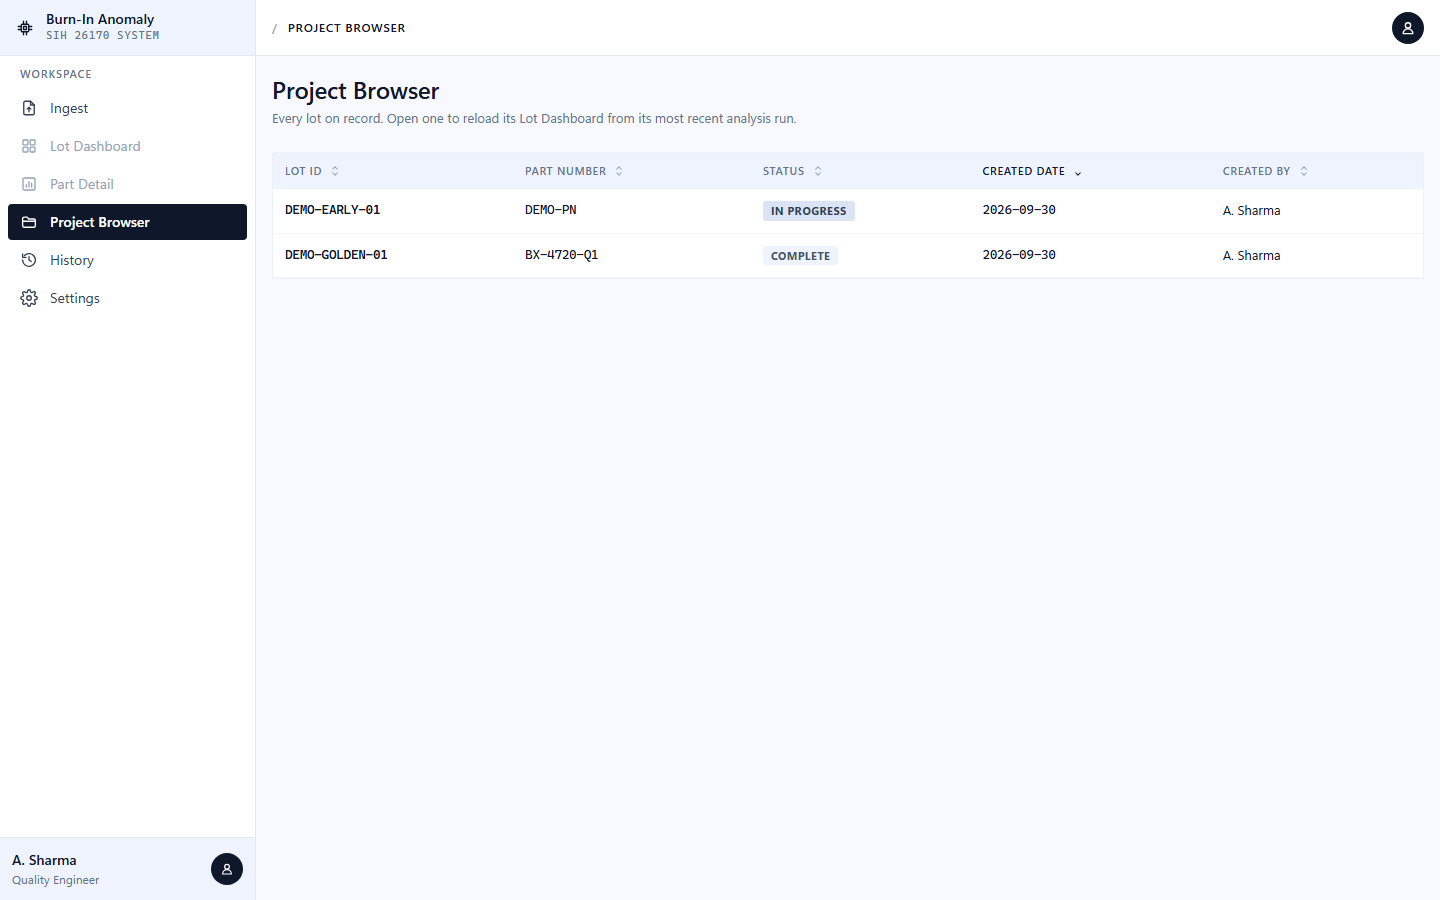
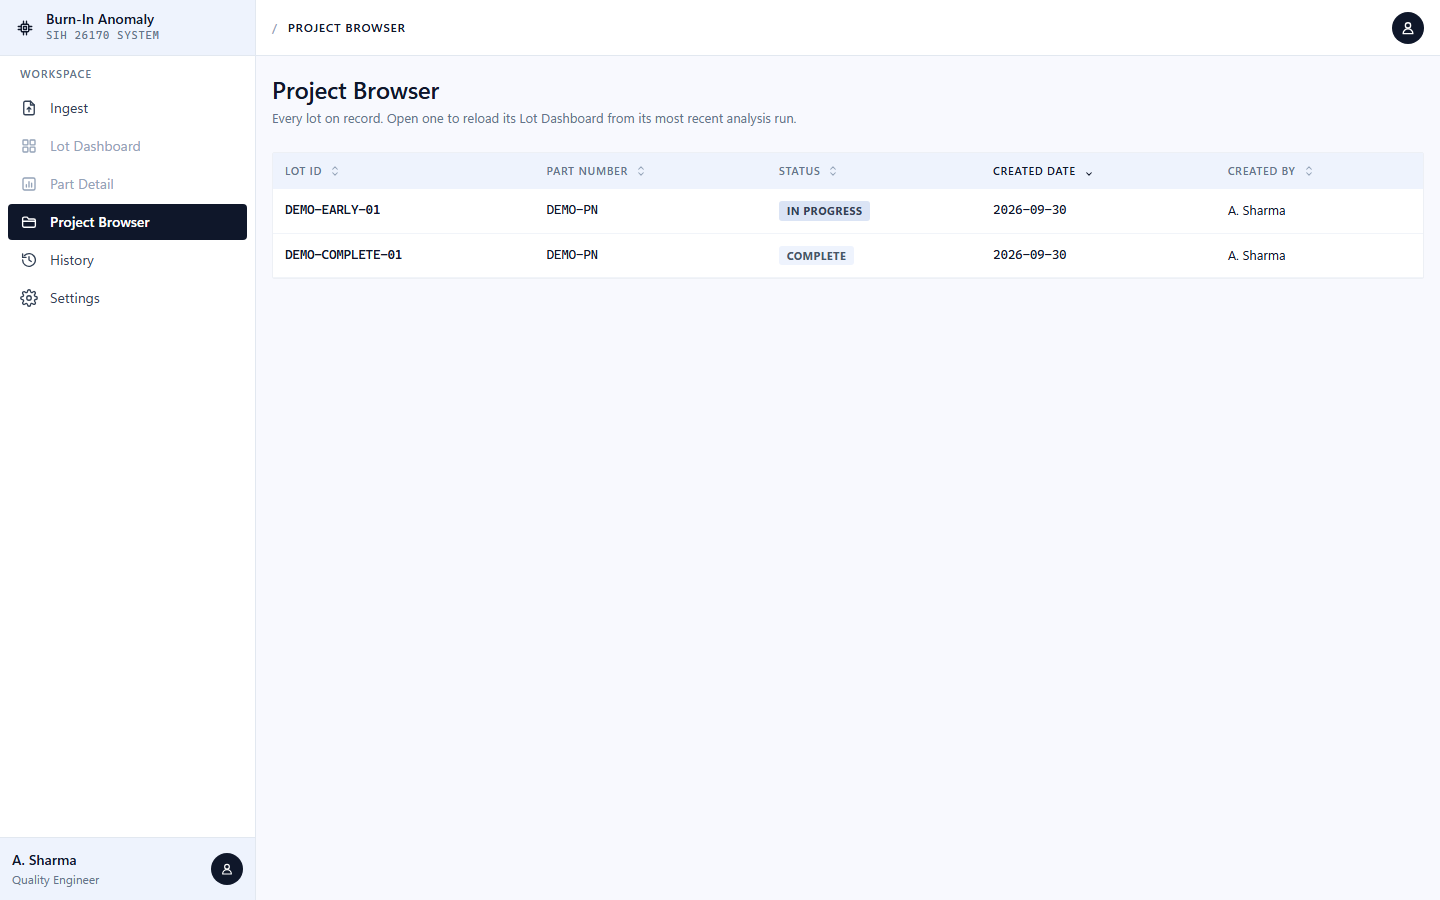
[Lead-as-P1] screenshots: DEMO-COMPLETE-01 instead of the golden lot, two Module A REJECT part details; re-captured

diff --git a/frontend/scripts/screenshots.ts b/frontend/scripts/screenshots.ts
@@ -13,7 +13,7 @@
  *
  * BASE_URL mode (Session 6): `BASE_URL=http://localhost:8020 npx tsx scripts/screenshots.ts` skips vite entirely and
  * captures the production build served by FastAPI itself (scripts/build_demo.sh) - same origin for page and API -
- * of the two demo lots (DEMO-GOLDEN-01, DEMO-EARLY-01) into frontend/screenshots/single-process/.
+ * of the two demo lots (DEMO-COMPLETE-01, DEMO-EARLY-01) into frontend/screenshots/single-process/.
  */
 import { chromium } from '@playwright/test'
 import { execFileSync, spawn, type ChildProcessWithoutNullStreams } from 'node:child_process'
@@ -57,12 +57,19 @@ function waitForServer(url: string, timeoutMs = 30000): Promise<void> {
 async function singleProcess(baseUrl: string) {
   const outDir = path.join(SCREENSHOT_DIR, 'single-process')
   await mkdir(outDir, { recursive: true })
-  const golden = 'DEMO-GOLDEN-01'
+  const complete = 'DEMO-COMPLETE-01'
   const early = 'DEMO-EARLY-01'
 
   let apiToken: string | null = null
   const apiClient = createApiClient({ baseUrl, getToken: () => apiToken })
   apiToken = (await login(apiClient, { account_id: 'a.sharma', pin: '1234' })).access_token
+  const completeSummary = await getLotSummary(apiClient, complete)
+  // module_a_rank is a position: 1 = most severe. Module A REJECT parts of the complete lot, most severe first.
+  const aRejects = completeSummary.assessments
+    .filter((a) => a.verdict === 'REJECT' && a.module_a_ran)
+    .sort((x, y) => x.module_a_rank - y.module_a_rank)
+  if (aRejects.length < 2) throw new Error(`${complete} has fewer than 2 Module A REJECT parts`)
+  console.log(`Complete lot top part: ${aRejects[0].component_id}, second: ${aRejects[1].component_id}`)
   const earlySummary = await getLotSummary(apiClient, early)
   const earlyRejects = earlySummary.assessments.filter((a) => a.verdict === 'REJECT')
   if (earlyRejects.length === 0) throw new Error(`${early} has no REJECT part`)
@@ -100,24 +107,24 @@ async function singleProcess(baseUrl: string) {
     await shot('02-project-browser')
 
     currentScreen = 'lot dashboard golden'
-    await page.goto(`${baseUrl}/#/lots/${golden}`)
+    await page.goto(`${baseUrl}/#/lots/${complete}`)
     await page.waitForSelector('text=/PDA:/')
     const dpaButton = page.getByRole('button', { name: /generate dpa work order/i })
     if (await dpaButton.isVisible()) {
       await dpaButton.click()
       await page.waitForSelector('text=DPA Work Order')
     }
-    await shot('03-lot-dashboard-golden')
+    await shot('03-lot-dashboard-complete')
 
     currentScreen = 'lot dashboard early'
     await page.goto(`${baseUrl}/#/lots/${early}`)
     await page.waitForSelector('text=/PDA:/')
     await shot('04-lot-dashboard-early')
 
-    currentScreen = 'part detail GOLDEN-045'
-    await page.goto(`${baseUrl}/#/parts/GOLDEN-045`)
+    currentScreen = 'part detail top Module A REJECT'
+    await page.goto(`${baseUrl}/#/parts/${encodeURIComponent(aRejects[0].component_id)}`)
     await page.waitForSelector('h1.screen-title')
-    await shot('05-part-detail-golden-045')
+    await shot('05-part-detail-module-a-reject')
 
     currentScreen = 'part detail early'
     await page.goto(`${baseUrl}/#/parts/${encodeURIComponent(earlyPart.component_id)}`)
@@ -128,6 +135,11 @@ async function singleProcess(baseUrl: string) {
     await page.goto(`${baseUrl}/#/settings`)
     await page.waitForSelector('text=Corrective Feedback Status')
     await shot('07-settings')
+
+    currentScreen = 'part detail second Module A REJECT'
+    await page.goto(`${baseUrl}/#/parts/${encodeURIComponent(aRejects[1].component_id)}`)
+    await page.waitForSelector('h1.screen-title')
+    await shot('08-part-detail-module-a-reject-second')
   } finally {
     await browser.close()
     await writeFile(
